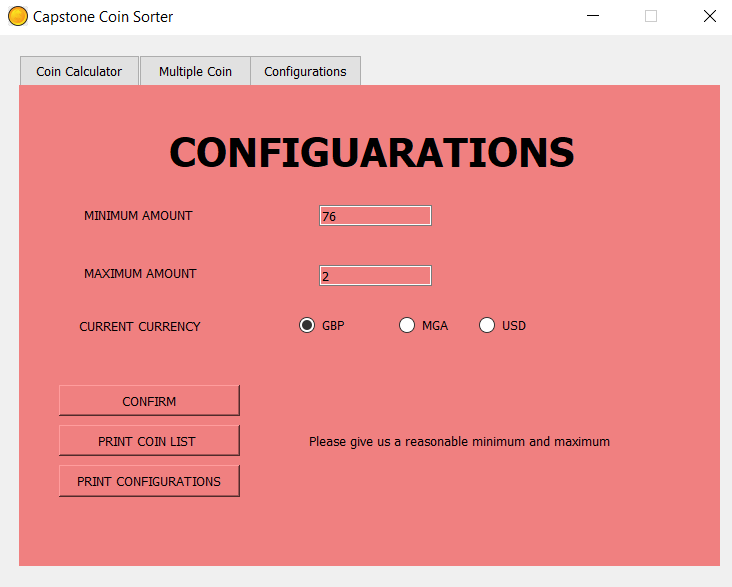
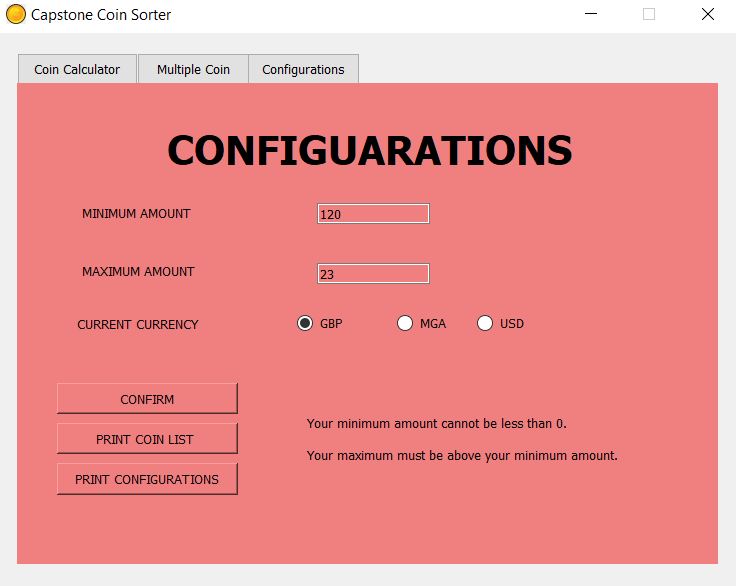
New Screenshots with more coherent error messages

diff --git a/GUIFINAL.py b/GUIFINAL.py
@@ -353,7 +353,7 @@ class Ui_MainWindow(object):
                     RadioFailBoo = True
                     errormessage = "Please select a currency"
             else: 
-                errormessage = "Your minimum amount cannot be less than 0.\n\nYour maximum must be above you minimum amount."
+                errormessage = "Your minimum amount cannot be less than 0.\n\nYour maximum must be above your minimum amount."
 
                 #Change radio fail boolean to True to prevent the function from being run with false data.
                 RadioFailBoo = True
